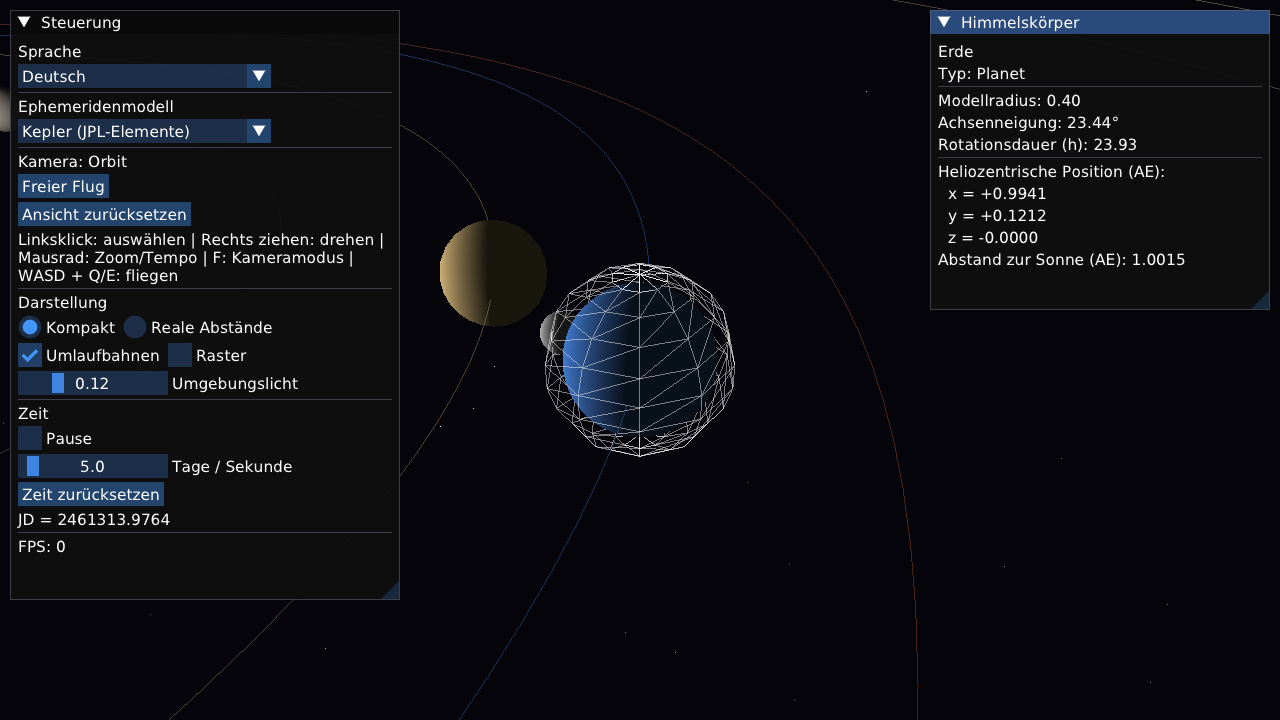
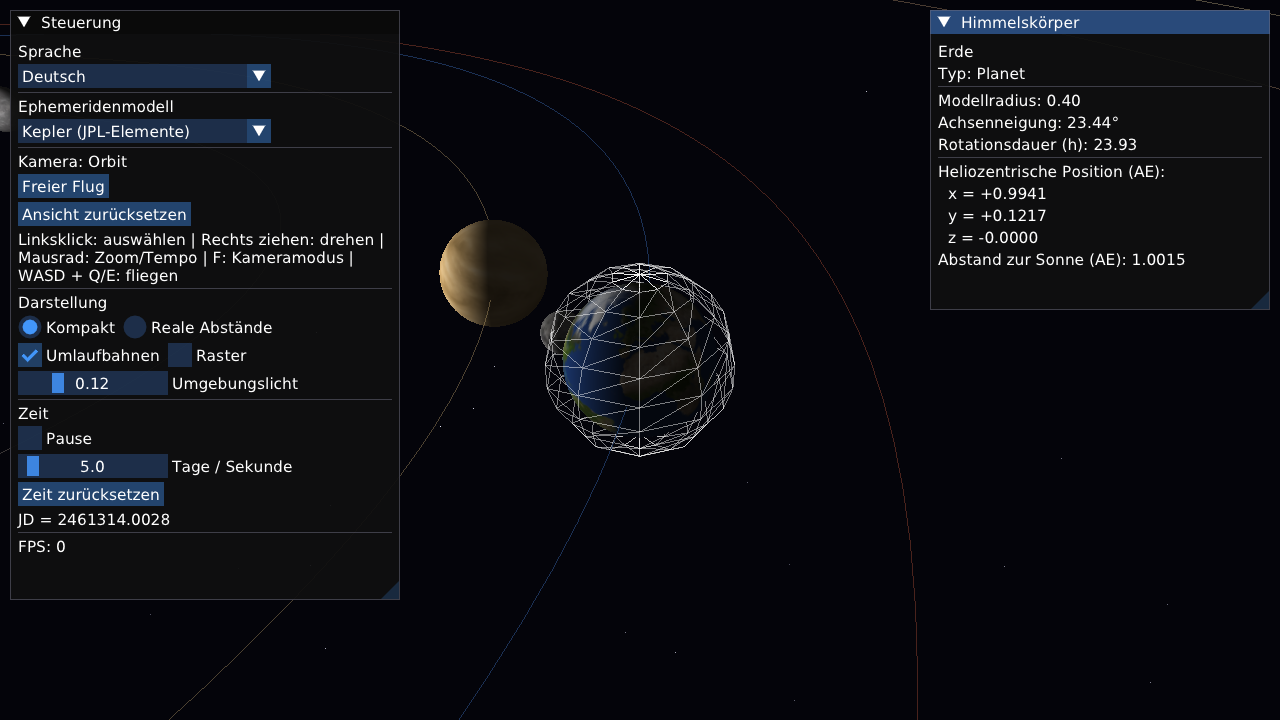
Restore original surface maps and correct sphere poles and UV orientation

Changed region(s): [[0.4062, 0.3972, 0.5, 0.6111], [0.3438, 0.3667, 0.375, 0.3972], [0.0938, 0.7028, 0.125, 0.7333]]

diff --git a/web/shell.html b/web/shell.html
@@ -31,6 +31,7 @@
   <footer>
     <span>Click: select · Right-drag: rotate · Scroll: zoom · F: free flight</span>
     <a href="https://github.com/zbybko">Built by Zakhar Bybko</a>
+    <a href="https://github.com/zbybko/solar-system/blob/main/assets/textures/README.md">Surface maps: Solar System Scope · CC BY 4.0</a>
   </footer>
   <script>
     var canvas = document.getElementById('canvas');

diff --git a/src/Planet.cpp b/src/Planet.cpp
@@ -1,4 +1,5 @@
 #include "Planet.hpp"
+#include "AssetPath.hpp"
 
 #include "rlgl.h"
 
@@ -11,10 +12,11 @@ namespace {
 // Плоское кольцо-аннулюс в локальной плоскости x-z (y=0). Рисуется в
 // immediate-режиме rlgl — никаких отдельных GPU-ресурсов держать не нужно.
 // Треугольники выводятся в обе стороны, чтобы кольцо было видно сверху и снизу.
-void drawRing(float inner, float outer, Color c) {
+void drawRing(float inner, float outer, Color c, Texture2D texture) {
     constexpr int segments = 72;
     constexpr double kTwoPi = 2.0 * 3.14159265358979323846;
 
+    rlSetTexture(texture.id);
     rlBegin(RL_TRIANGLES);
     rlColor4ub(c.r, c.g, c.b, c.a);
     for (int i = 0; i < segments; ++i) {
@@ -28,14 +30,18 @@ void drawRing(float inner, float outer, Color c) {
         const Vector3 iv1{c1 * inner, 0.f, s1 * inner};
         const Vector3 ov1{c1 * outer, 0.f, s1 * outer};
 
-        // Лицевая сторона.
-        rlVertex3f(iv0.x, iv0.y, iv0.z); rlVertex3f(ov0.x, ov0.y, ov0.z); rlVertex3f(ov1.x, ov1.y, ov1.z);
-        rlVertex3f(iv0.x, iv0.y, iv0.z); rlVertex3f(ov1.x, ov1.y, ov1.z); rlVertex3f(iv1.x, iv1.y, iv1.z);
-        // Обратная сторона (обратный обход).
-        rlVertex3f(iv0.x, iv0.y, iv0.z); rlVertex3f(ov1.x, ov1.y, ov1.z); rlVertex3f(ov0.x, ov0.y, ov0.z);
-        rlVertex3f(iv0.x, iv0.y, iv0.z); rlVertex3f(iv1.x, iv1.y, iv1.z); rlVertex3f(ov1.x, ov1.y, ov1.z);
+        auto vertex = [](Vector3 p, float radialUv) {
+            rlTexCoord2f(radialUv, 0.5f);
+            rlVertex3f(p.x, p.y, p.z);
+        };
+        // The ring map runs from inner radius (left) to outer radius (right).
+        vertex(iv0, 0.f); vertex(ov0, 1.f); vertex(ov1, 1.f);
+        vertex(iv0, 0.f); vertex(ov1, 1.f); vertex(iv1, 0.f);
+        vertex(iv0, 0.f); vertex(ov1, 1.f); vertex(ov0, 1.f);
+        vertex(iv0, 0.f); vertex(iv1, 0.f); vertex(ov1, 1.f);
     }
     rlEnd();
+    rlSetTexture(0);
 }
 
 } // namespace
@@ -44,13 +50,40 @@ Planet::Planet(std::string name, BodyId id, float radius, float axialTiltDeg,
                float rotationPeriodHours, double orbitalPeriodDays, Color color)
     : CelestialBody(std::move(name), id, radius, axialTiltDeg,
                     rotationPeriodHours, color),
-      orbitalPeriodDays_(orbitalPeriodDays) {}
+      orbitalPeriodDays_(orbitalPeriodDays) {
+    const char* texture = nullptr;
+    switch (id) {
+        case BodyId::Mercury: texture = "textures/mercury.jpg"; break;
+        case BodyId::Venus: texture = "textures/venus_atmosphere.jpg"; break;
+        case BodyId::Earth: texture = "textures/earth_daymap.jpg"; break;
+        case BodyId::Mars: texture = "textures/mars.jpg"; break;
+        case BodyId::Jupiter: texture = "textures/jupiter.jpg"; break;
+        case BodyId::Saturn: texture = "textures/saturn.jpg"; break;
+        case BodyId::Uranus: texture = "textures/uranus.jpg"; break;
+        case BodyId::Neptune: texture = "textures/neptune.jpg"; break;
+        case BodyId::Sun: break;
+    }
+    if (texture)
+        loadTexture(assetPath(texture).c_str());
+}
+
+Planet::~Planet() {
+    if (IsTextureValid(ringTexture_))
+        UnloadTexture(ringTexture_);
+}
 
 void Planet::enableRings(float innerRadius, float outerRadius, Color color) {
     hasRings_ = true;
     ringInner_ = innerRadius;
     ringOuter_ = outerRadius;
     ringColor_ = color;
+    if (IsTextureValid(ringTexture_))
+        UnloadTexture(ringTexture_);
+    ringTexture_ = LoadTexture(assetPath("textures/saturn_ring.png").c_str());
+    if (IsTextureValid(ringTexture_)) {
+        SetTextureFilter(ringTexture_, TEXTURE_FILTER_BILINEAR);
+        SetTextureWrap(ringTexture_, TEXTURE_WRAP_CLAMP);
+    }
 }
 
 void Planet::rebuildOrbit(const IEphemeris& ephemeris) {
@@ -99,7 +132,8 @@ void Planet::draw(const RenderContext& ctx) const {
         rlPushMatrix();
         rlTranslatef(p.x, p.y, p.z);
         rlRotatef(axialTilt_, 0.f, 0.f, 1.f); // кольцо в экваториальной плоскости
-        drawRing(ringInner_ * ctx.radiusScale, ringOuter_ * ctx.radiusScale, ringColor_);
+        drawRing(ringInner_ * ctx.radiusScale, ringOuter_ * ctx.radiusScale,
+                 IsTextureValid(ringTexture_) ? WHITE : ringColor_, ringTexture_);
         rlPopMatrix();
     }
 }

diff --git a/tests/sphere_mapping_test.cpp b/tests/sphere_mapping_test.cpp
@@ -1,0 +1,41 @@
+#include "SphereMapping.hpp"
+
+#include <cmath>
+#include <iostream>
+
+int main() {
+    constexpr float pi = 3.14159265358979323846f;
+    int failures = 0;
+    auto check = [&](bool condition, const char* message) {
+        if (!condition) {
+            std::cerr << message << '\n';
+            ++failures;
+        }
+    };
+    // Sample raylib/par_shapes' sphere parameterization across both hemispheres
+    // and the longitude seam, then verify its relationship to the image map.
+    for (int latitude = 0; latitude <= 16; ++latitude) {
+        for (int longitude = 0; longitude <= 32; ++longitude) {
+            const float v = latitude / 16.0f;
+            const float u = longitude / 32.0f;
+            const float phi = v * pi;
+            const float theta = u * 2.0f * pi;
+            float normal[] = {std::cos(theta) * std::sin(phi),
+                              std::sin(theta) * std::sin(phi), std::cos(phi)};
+            float position[] = {2.0f * normal[0], 2.0f * normal[1], 2.0f * normal[2]};
+            float uv[] = {v, u};
+            solar::orientSphereSurface(position, normal, uv);
+            check(std::abs(uv[0] - u) < 1e-6f && std::abs(uv[1] - v) < 1e-6f,
+                  "Map longitude and latitude are swapped");
+            check(std::abs(position[1] - 2.0f * std::cos(pi * uv[1])) < 1e-5f,
+                  "Image latitude does not match the Y-up pole axis");
+            check(std::abs(position[0] - 2.0f * std::cos(2.0f * pi * uv[0]) * std::sin(phi)) < 1e-5f &&
+                  std::abs(position[2] + 2.0f * std::sin(2.0f * pi * uv[0]) * std::sin(phi)) < 1e-5f,
+                  "Longitude is mirrored or rotated relative to the geometry");
+            for (int axis = 0; axis < 3; ++axis)
+                check(std::abs(position[axis] - 2.0f * normal[axis]) < 1e-5f,
+                      "Lighting normal is not aligned with the surface");
+        }
+    }
+    return failures == 0 ? 0 : 1;
+}

diff --git a/src/CelestialBody.cpp b/src/CelestialBody.cpp
@@ -1,4 +1,5 @@
 #include "CelestialBody.hpp"
+#include "SphereMapping.hpp"
 
 #include "rlgl.h"
 
@@ -18,7 +19,13 @@ CelestialBody::CelestialBody(std::string name, BodyId id, float radius,
       color_(color) {
     // Сфера-заглушка с цветом тела. Если позже загрузить текстуру, она ляжет
     // поверх (fallback на цветную сферу — требование проекта).
-    Mesh mesh = GenMeshSphere(radius_, 24, 24);
+    Mesh mesh = GenMeshSphere(radius_, 32, 64);
+    for (int i = 0; i < mesh.vertexCount; ++i)
+        orientSphereSurface(mesh.vertices + i * 3, mesh.normals + i * 3,
+                            mesh.texcoords + i * 2);
+    UpdateMeshBuffer(mesh, 0, mesh.vertices, mesh.vertexCount * 3 * sizeof(float), 0);
+    UpdateMeshBuffer(mesh, 1, mesh.texcoords, mesh.vertexCount * 2 * sizeof(float), 0);
+    UpdateMeshBuffer(mesh, 2, mesh.normals, mesh.vertexCount * 3 * sizeof(float), 0);
     model_ = LoadModelFromMesh(mesh);
     model_.materials[0].maps[MATERIAL_MAP_DIFFUSE].color = color_;
 }
@@ -33,7 +40,16 @@ CelestialBody::~CelestialBody() {
 void CelestialBody::loadTexture(const char* path) {
     if (path == nullptr || !FileExists(path))
         return; // остаётся цветная сфера
-    texture_ = LoadTexture(path);
+    Texture2D loaded = LoadTexture(path);
+    if (!IsTextureValid(loaded))
+        return;
+    if (hasTexture_)
+        UnloadTexture(texture_);
+    texture_ = loaded;
+    GenTextureMipmaps(&texture_);
+    SetTextureFilter(texture_, TEXTURE_FILTER_TRILINEAR);
+    // Clamp at the latitude edges so the south pole never samples the north pole.
+    SetTextureWrap(texture_, TEXTURE_WRAP_CLAMP);
     hasTexture_ = true;
     model_.materials[0].maps[MATERIAL_MAP_DIFFUSE].texture = texture_;
     // С текстурой цвет-модулятор делаем белым, чтобы не искажать цвета.

diff --git a/include/Planet.hpp b/include/Planet.hpp
@@ -16,6 +16,7 @@ class Planet final : public CelestialBody {
 public:
     Planet(std::string name, BodyId id, float radius, float axialTiltDeg,
            float rotationPeriodHours, double orbitalPeriodDays, Color color);
+    ~Planet() override;
 
     // Включить плоское кольцо в экваториальной плоскости планеты (мировые
     // единицы радиусов). По умолчанию у планеты колец нет.
@@ -33,6 +34,7 @@ private:
     float ringInner_{0.f};
     float ringOuter_{0.f};
     Color ringColor_{};
+    Texture2D ringTexture_{};
     std::vector<Vector3> orbitAu_; // точки орбиты в а.е.
 };
 

diff --git a/src/Moon.cpp b/src/Moon.cpp
@@ -1,4 +1,5 @@
 #include "Moon.hpp"
+#include "AssetPath.hpp"
 
 namespace solar {
 
@@ -11,7 +12,9 @@ Moon::Moon(std::string name, BodyId parentId, const CelestialBody& parent,
     : CelestialBody(std::move(name), parentId, radius, /*axialTilt*/ 6.68f,
                     kSiderealMonthHours, color),
       parent_(parent),
-      distanceExaggeration_(distanceExaggeration) {}
+      distanceExaggeration_(distanceExaggeration) {
+    loadTexture(assetPath("textures/moon.jpg").c_str());
+}
 
 void Moon::update(double jd, const IEphemeris& ephemeris) {
     // Реальное геоцентрическое направление от провайдера (а.е.), раздутое

diff --git a/include/SphereMapping.hpp b/include/SphereMapping.hpp
@@ -1,0 +1,20 @@
+#pragma once
+
+#include <utility>
+
+namespace solar {
+
+// raylib/par_shapes spheres use Z as their pole axis and (latitude, longitude)
+// as UV coordinates. Equirectangular maps need Y-up poles and (longitude, latitude).
+// Rotate the geometry and its normal by -90 degrees around X; preserve winding.
+inline void orientSphereSurface(float* position, float* normal, float* uv) {
+    const float y = position[1];
+    position[1] = position[2];
+    position[2] = -y;
+    const float ny = normal[1];
+    normal[1] = normal[2];
+    normal[2] = -ny;
+    std::swap(uv[0], uv[1]);
+}
+
+} // namespace solar

diff --git a/src/Star.cpp b/src/Star.cpp
@@ -1,11 +1,14 @@
 #include "Star.hpp"
+#include "AssetPath.hpp"
 
 namespace solar {
 
 Star::Star(std::string name, float radius, float axialTiltDeg,
            float rotationPeriodHours, Color color)
     : CelestialBody(std::move(name), BodyId::Sun, radius, axialTiltDeg,
-                    rotationPeriodHours, color) {}
+                    rotationPeriodHours, color) {
+    loadTexture(assetPath("textures/sun.jpg").c_str());
+}
 
 void Star::update(double jd, const IEphemeris& /*ephemeris*/) {
     worldPos_ = Vector3{0.f, 0.f, 0.f}; // звезда — центр системы

diff --git a/README.md b/README.md
@@ -7,9 +7,9 @@ Explore planetary motion, switch orbital models, and inspect celestial bodies in
 
 **[Run the interactive browser demo](https://zbybko.github.io/solar-system/)**
 
-![Solar System running in English: Saturn, orbital controls and body information](docs/preview-en.png)
+![Solar System running in English: textured Earth, orbital controls and body information](docs/preview-en.png)
 
-*Actual application capture using the built-in Kepler provider and colored model surfaces.*
+*Actual application capture using the built-in Kepler provider and Solar System Scope surface maps.*
 
 ## Overview
 
@@ -27,6 +27,7 @@ completed milestones and remaining finalization tasks.
 - Simulation pause, adjustable time speed, orbit paths and a reference grid.
 - Compact and real-distance views; body sizes remain exaggerated for readability.
 - Sun lighting, a starfield and an information panel with coordinates and rotation parameters.
+- Bundled Sun, planet and Moon textures with Y-up poles and equirectangular UV mapping.
 - Live **English / Deutsch / Русский** switching in the control panel.
 - Two interchangeable ephemeris providers: built-in Kepler/JPL calculations and optional libnova.
 
@@ -114,18 +115,21 @@ cmake --build out/tests
 ctest --test-dir out/tests --output-on-failure
 ```
 
-The test verifies nonempty translations in all three languages, stable widget IDs and language fallback.
+The tests verify translations, stable widget IDs, language fallback and surface mapping
+(latitude, longitude, pole orientation and lighting normals).
 CI runs these checks; it does not replace graphical or numerical validation.
 
 ## Limitations
 
 - The built-in Moon model uses a simplified circular orbit. Planet positions are approximations.
 - Compact mode, model radii and the Moon's displayed distance are intentionally exaggerated.
-- The repository currently uses colored body surfaces; optional texture loading exists, but planet textures are not bundled.
+- Surface maps are static reference images; seasonal changes, clouds and atmospheric scattering are not simulated.
 - An earlier version reported a transparent-window issue with GLFW/OpenGL on macOS 26. Window presentation can depend on the OS and graphics stack.
 - No ROS integration, robot control or N-body gravitational solver is implemented.
 
 ## Assets and dependencies
 
 DejaVu Sans is bundled for multilingual text; see the [DejaVu Fonts license](https://dejavu-fonts.github.io/License.html).
+Planet, Sun, Moon and ring textures are by Solar System Scope / INOVE under CC BY 4.0;
+see [surface map credits](assets/textures/README.md).
 raylib, Dear ImGui, rlImGui and optional libnova retain their respective licenses.

diff --git a/assets/textures/README.md b/assets/textures/README.md
@@ -1,0 +1,27 @@
+# Surface map credits
+
+The bundled 2048 × 1024 planet, Sun and Moon maps are from
+[Solar System Scope / INOVE](https://www.solarsystemscope.com/textures/),
+distributed under [CC BY 4.0](https://creativecommons.org/licenses/by/4.0/).
+The maps combine NASA imagery and elevation data with artistic adjustments;
+they are reference textures, not live imagery.
+
+Downloaded unchanged from the official collection. SHA-256 comparisons confirmed
+that they match the corresponding textures in the project's earlier `gh-pages` build.
+Only sphere geometry and UV coordinates are corrected in code; the images are unmodified.
+
+| Bundled file | Original download |
+| --- | --- |
+| `earth_daymap.jpg` | `2k_earth_daymap.jpg` |
+| `mercury.jpg` | `2k_mercury.jpg` |
+| `venus_atmosphere.jpg` | `2k_venus_atmosphere.jpg` |
+| `mars.jpg` | `2k_mars.jpg` |
+| `jupiter.jpg` | `2k_jupiter.jpg` |
+| `saturn.jpg` | `2k_saturn.jpg` |
+| `uranus.jpg` | `2k_uranus.jpg` |
+| `neptune.jpg` | `2k_neptune.jpg` |
+| `sun.jpg` | `2k_sun.jpg` |
+| `moon.jpg` | `2k_moon.jpg` |
+| `saturn_ring.png` | `2k_saturn_ring_alpha.png` |
+
+Source URL pattern: `https://www.solarsystemscope.com/textures/download/<original filename>`.

diff --git a/ROADMAP.md b/ROADMAP.md
@@ -32,7 +32,7 @@ it does not imply that every configuration has been tested on every platform.
 - [x] Support textured spheres with a colored fallback, axial tilt and rotation.
 - [x] Manage model resources through RAII and provide polymorphic `update` / `draw` methods.
 
-Texture-loading support is implemented; planet texture assets are not bundled.
+Surface maps were bundled during the portfolio refresh below.
 
 ### 5. Solar system assembly
 
@@ -83,6 +83,8 @@ These additions came after the original eight-stage plan.
 - [x] Restore this development plan as a separate, linked document.
 - [x] Add a WebAssembly browser build with bundled assets and WebGL lighting.
 - [x] Publish the interactive demo on GitHub Pages and automate deployment from `main`.
+- [x] Restore the original Sun, planet, Moon and Saturn-ring maps with source credits.
+- [x] Correct sphere pole orientation and UV mapping; add a surface-mapping regression test.
 
 ## Validation scope
 

diff --git a/README.de.md b/README.de.md
@@ -19,6 +19,7 @@ mit WebGL und Maus. Jeder Push auf `main` aktualisiert die Demo automatisch übe
 - Einstellbare Simulationsgeschwindigkeit, Pause, Umlaufbahnen und Raster.
 - Kompakte Darstellung oder reale Abstände bei vergrößerten Körperradien.
 - Beleuchtung durch die Sonne, Sternenhintergrund und Informationen zum gewählten Körper.
+- Oberflächentexturen für Sonne, Planeten und Mond mit korrigierter Polausrichtung.
 - Sprachwechsel zwischen **Deutsch, Englisch und Russisch**, ohne Neustart.
 - Austauschbare Ephemeridenmodelle: Kepler/JPL und optional libnova.
 
